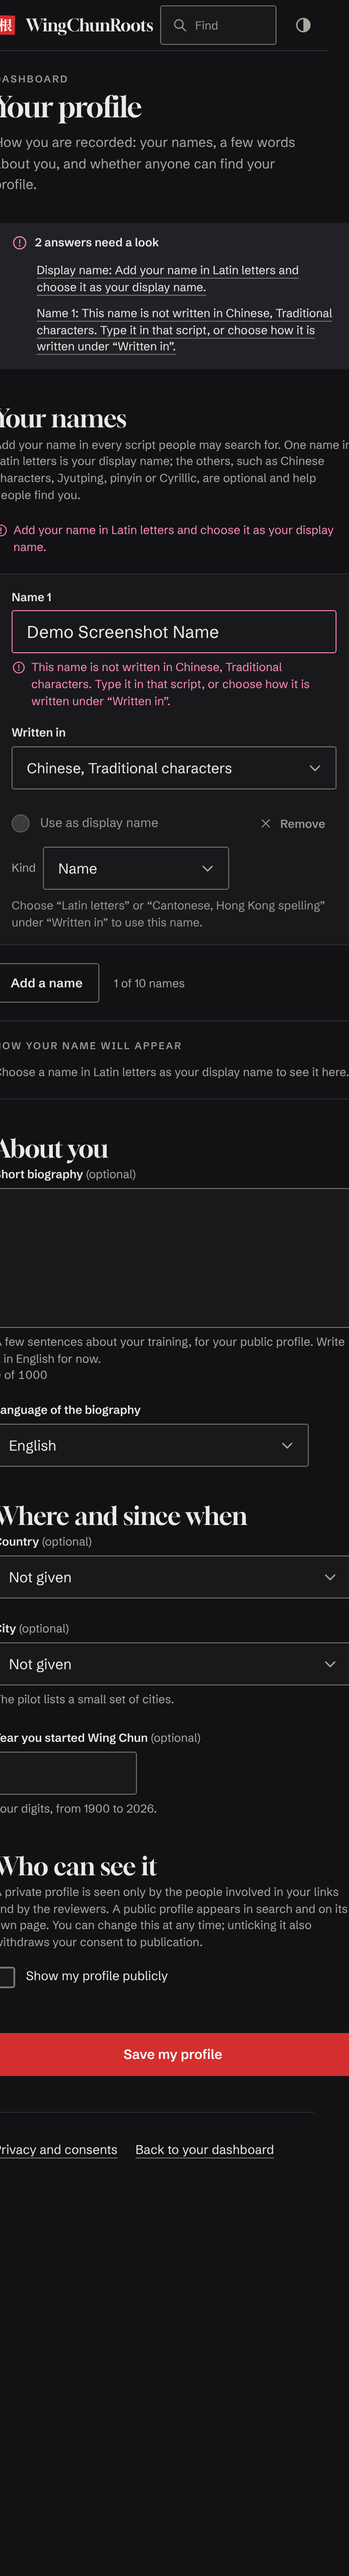
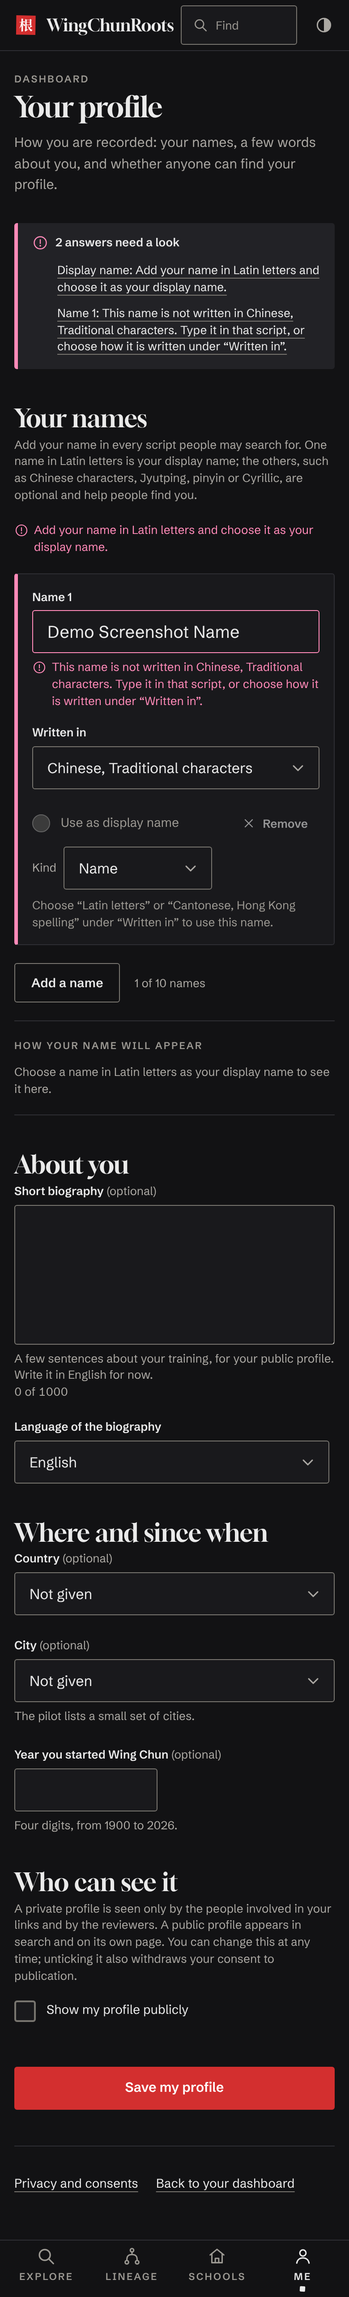
M07: the Kind field has no fixed width, so a name card fits a 390 or 320 px screen
The 13rem Kind select made the action row of a name card wider than a
phone screen (413 px at 390 px), and the grid tracks above it widened
the whole form (verify all: @M00b no horizontal scroll). The select now
takes the room it has. A new @M07 test checks 390 and 320 px; the
profile screenshots are regenerated.

Claude-Session: https://claude.ai/code/session_01STyQUAPRBBmWDHTxvJbxAV

diff --git a/e2e/m07-search.spec.ts b/e2e/m07-search.spec.ts
@@ -476,6 +476,30 @@ test.describe('on a phone', () => {
     await page.waitForURL((url) => url.pathname === '/people/demo-cjk-name');
     await expect(palette(page)).toHaveCount(0);
   });
+
+  test('@M07 at 390 and 320 px the profile editor fits the screen: Kind and Remove stay inside their card', async ({ page }) => {
+    await freshAccount(page, { name: 'Demo Narrow Screen' });
+    await page.goto('/dashboard/profile');
+    await page.getByRole('button', { name: 'Add a name' }).click();
+    await page.getByLabel('Name 2', { exact: true }).fill('測試雲');
+    await page.getByLabel('Written in').nth(1).selectOption({ label: 'Chinese, Traditional characters' });
+    for (const width of [390, 320]) {
+      await page.setViewportSize({ width, height: 844 });
+      // A phone widens its layout viewport to fit wider content, so the screen width is the bound.
+      const scrollWidth = await page.evaluate(() => Math.max(document.documentElement.scrollWidth, document.body.scrollWidth));
+      expect(scrollWidth, `${width} px: no horizontal scroll`).toBeLessThanOrEqual(width);
+      const cards = page.locator('[data-name-row]');
+      await expect(cards).toHaveCount(2);
+      for (const card of await cards.all()) {
+        const right = await card.evaluate((el) => el.getBoundingClientRect().right);
+        for (const control of [card.getByLabel('Kind', { exact: true }), card.getByRole('button', { name: 'Remove' })]) {
+          const box = (await control.boundingBox())!;
+          expect(box.x + box.width, `${width} px: inside the card`).toBeLessThanOrEqual(right);
+          expect(box.height).toBeGreaterThanOrEqual(44);
+        }
+      }
+    }
+  });
 });
 
 test.describe('on a phone in landscape', () => {

diff --git a/src/app/dashboard/profile/profile-editor.tsx b/src/app/dashboard/profile/profile-editor.tsx
@@ -335,8 +335,10 @@ export function ProfileEditor({
                           <label htmlFor={kindId} className="text-sm text-fg-muted">
                             Kind
                           </label>
-                          {/* The fields' own select: 16 px (no zoom on iOS) and the thin chevron. */}
-                          <span className="relative w-52 min-w-0">
+                          {/* The fields' own select: 16 px (no zoom on iOS) and the thin chevron. No fixed width:
+                              as wide as "Also known as" when there is room, narrower on a 320 px phone, so the
+                              row never makes the page wider than the screen. */}
+                          <span className="relative min-w-0 flex-1">
                             <select
                               id={kindId}
                               name={nameField(i, 'kind')}

diff --git a/docs/design/reviews/M07.md b/docs/design/reviews/M07.md
@@ -41,6 +41,7 @@
 | Снимките не показват три от състоянията на палитрата: съвпадение по йероглифи, последните търсения и грешка | Нови снимки `palette-cjk`, `palette-recent` и `palette-error` (1440×900 и 390×844, светла и тъмна тема) и същите състояния във визуалната регресия (`@visual`). Прегледани: при „蘇晴嵐“ съвпадналото изписване стои приглушено до името за показване; бутонът **Clear** е вдясно на реда с бележката за браузъра; при грешка се виждат „Search is not available right now.“ и „Try again“ |
 | Палитрата започва отначало при всяко отваряне и не отваря остарял ред с Enter | Снимките `palette`, `palette-empty` и `palette-no-match` са заснети наново; изгледът не се е променил |
 | Съобщението за името за показване казва причината (няма латинско име, името не е избрано и т.н.) | Снимките `profile`, `profile-invalid` и `profile-saved` са заснети наново; правилата на формата се зареждат при първия фокус или запис, без видима разлика |
+| Собствен преглед на снимките при 390 px (и `scripts/verify.sh all`, тест `@M00b … no horizontal scroll`): полето **Kind** с постоянна ширина 13rem правеше картите на имената по-широки от екрана (413 px при 390 px), а с тях и цялата форма | **Kind** вече няма постоянна ширина: колкото „Also known as“, когато има място, и по-тясно на 320 px. Нов тест `@M07` проверява 390 и 320 px (без хоризонтално превъртане, **Kind** и **Remove** вътре в картата, поне 44 px височина); снимките `profile*` са заснети наново |
 
 ## Отложено, със записана причина
 
